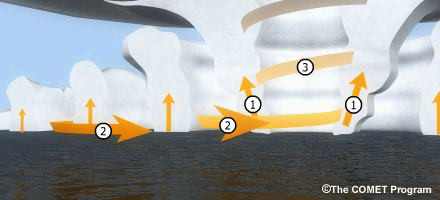
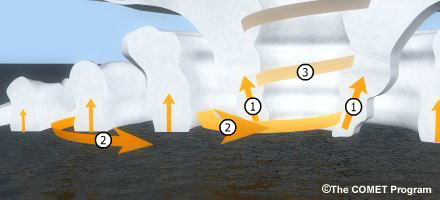
Coding image logic for Inflow.js page

diff --git a/src/Pages/Inflow.js b/src/Pages/Inflow.js
@@ -5,12 +5,15 @@ import ImageWrapper from '../Components/ImageWrapper';
 const Inflow = ({ setCurrentPage }) => {
 
     const [sliderValue, setSliderValue] = useState(0)
+    const [isToggled, setIsToggled] = useState(false)
 
     const handleOnChange = (e) => {
-        if (e.target.getAttribute("data-arrow") === "up" && sliderValue < 5) {
+        if (e.target.getAttribute("data-arrow") === "up" && sliderValue < 4) {
             setSliderValue(sliderValue + 1)
+            setIsToggled(false)
         } else if (e.target.getAttribute("data-arrow") === "down" && sliderValue > 0) {
             setSliderValue(sliderValue - 1)
+            setIsToggled(false)
         } else { }
     }
 
@@ -18,14 +21,34 @@ const Inflow = ({ setCurrentPage }) => {
         <SubContainer>
             <h3>Inflow</h3>
             <div className="inflow-image-wrapper">
-                <ImageWrapper />
+                <ImageWrapper
+                    src={!isToggled ? (`inflow_${sliderValue}`) : (`inflow_${sliderValue}_wire`)}
+                />
                 <form className="input-wrapper">
                     <i className="arrow up" data-arrow="up" onClick={(e) => handleOnChange(e)}></i>
-                    <input id="slider" type="range" name="slider" orient="vertical" value={sliderValue} min="0" max="5" onChange={(e) => setSliderValue(e.target.value)} />
+                    <input id="slider" type="range" name="slider" orient="vertical" value={sliderValue} min="0" max="4" onChange={(e) => setSliderValue(e.target.value)} />
                     <i className="arrow down" data-arrow="down" onClick={(e) => handleOnChange(e)}></i>
                 </form>
                 <label name="slider-label" htmlFor="slider">Camera Height</label>
             </div>
+            {sliderValue === 0 || sliderValue === 4 ? (
+                !isToggled ? (
+                    <div>
+                        <p
+                            className="clickable"
+                            onClick={() => setIsToggled(!isToggled)}
+                        >
+                            Wire Frame Image</p>
+                    </div>) : (
+                        <div>
+                            <p
+                                className="clickable"
+                                onClick={() => setIsToggled(!isToggled)}
+                            >
+                                Solid Image</p>
+                        </div>
+                    )
+            ) : (null)}
             <ol>
                 <li>Air rising, forming thunderstorms</li>
                 <li>Warm humid air flows inward, speeding up as it approaches the eyewall</li>

diff --git a/src/App.js b/src/App.js
@@ -1,24 +1,16 @@
-import React, { useState, useEffect } from 'react';
+import React, { useState } from 'react';
 import Container from './Components/Containers/Container';
-import { Tabs, TabList, TabPanel, Tab } from 'react-tabs';
 import 'react-tabs/style/react-tabs.css';
 import './App.scss';
-import SubContainer from './Components/Containers/Subcontainer';
-import List from './Components/List';
-import ImageWrapper from './Components/ImageWrapper';
 import Main from './Pages/Main';
 import Inflow from './Pages/Inflow';
 import Rainbands from "./Pages/Rainbands";
 import Eye_Eyewall from "./Pages/Eye&eyewall";
 import Outflow from './Pages/Outflow';
-const data = require("./Data/data.json");
 
 function App() {
 
   const [currentPage, setCurrentPage] = useState("Main")
-  // useEffect(() => {
-  //   renderCurrentPage(currentPage)
-  // }, [currentPage])
 
   const renderCurrentPage = (page) => {
     let renderedPage;

diff --git a/src/Pages/Main.js b/src/Pages/Main.js
@@ -20,8 +20,8 @@ const Main = ({ setCurrentPage }) => {
                 />
                 <div className="overlay">
                     {hover ? (
-                        hover.map(overlay => (
-                            <div className={`${overlay} circle`}></div>
+                        hover.map((overlay, i) => (
+                            <div className={`${overlay} circle`} key={i}></div>
                         ))
                     ) : (null)}
                 </div>
